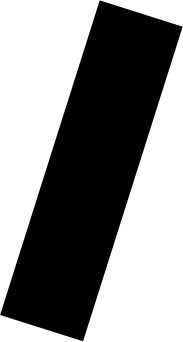
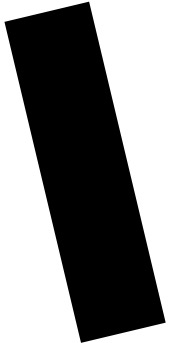
orientation angles updated

diff --git a/src/pages/Orientation.js b/src/pages/Orientation.js
@@ -4,13 +4,13 @@ import { useNavigate } from "react-router-dom";
 import store from '../utils/store';
 
 const imgStyles = [
-    {style: { left:"5%", top: "7%", width: "80px", height: "170px", writable: true}, src: "1"},
-    {style: { left: "10%", top: "60%", width: "100px", height: "170px"}, src: "3"},
-    {style: { left: "30%", top: "20%", width: "150px", height: "100px"}, src: "5"},
-    {style: { left: "35%", top: "75%", width: "100px", height: "170px"}, src: "6"},
-    {style: { left: "53%", top: "50%", width: "40px", height: "150px"}, src: "2"},
-    {style: { left: "65%", top: "15%", width: "40px", height: "150px"}, src: "4"},
-    {style: { left: "75%", top: "65%", width: "80px", height: "170px"}, src: "7"},
+    {style: { left:"5%", top: "7%", width: "100px", height: "170px", writable: true}, src: "1"},
+    {style: { left: "10%", top: "60%", width: "170px", height: "170px"}, src: "3"},
+    {style: { left: "30%", top: "20%", width: "170px", height: "100px"}, src: "5"},
+    {style: { left: "35%", top: "75%", width: "170px"}, src: "6"},
+    {style: { left: "53%", top: "50%", width: "170px", height: "50px"}, src: "2"},
+    {style: { left: "65%", top: "15%", width: "50px", height: "165px"}, src: "4"},
+    {style: { left: "75%", top: "65%", width: "90px", height: "175px"}, src: "7"},
     {style: { left: "85%", top: "30%", width: "175px", height: "90px"}, src: "8"},
 ];
 
